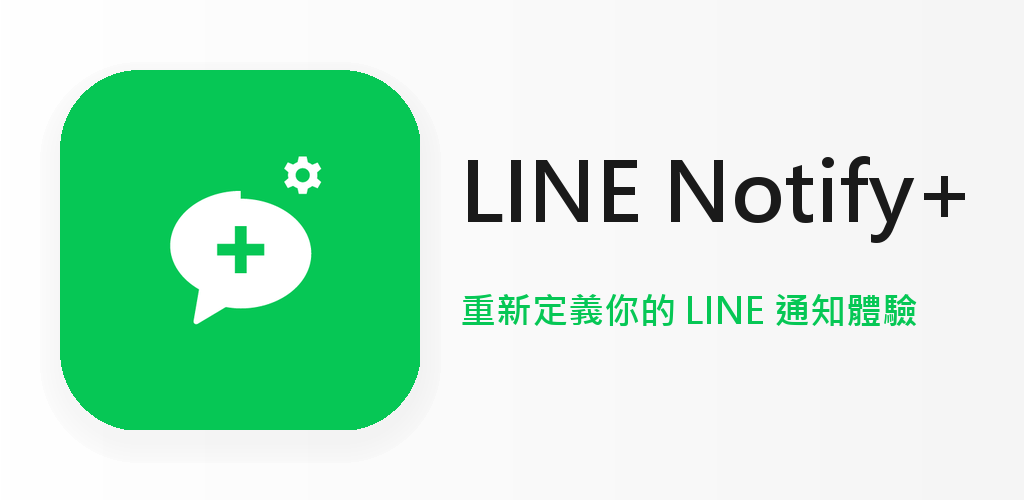
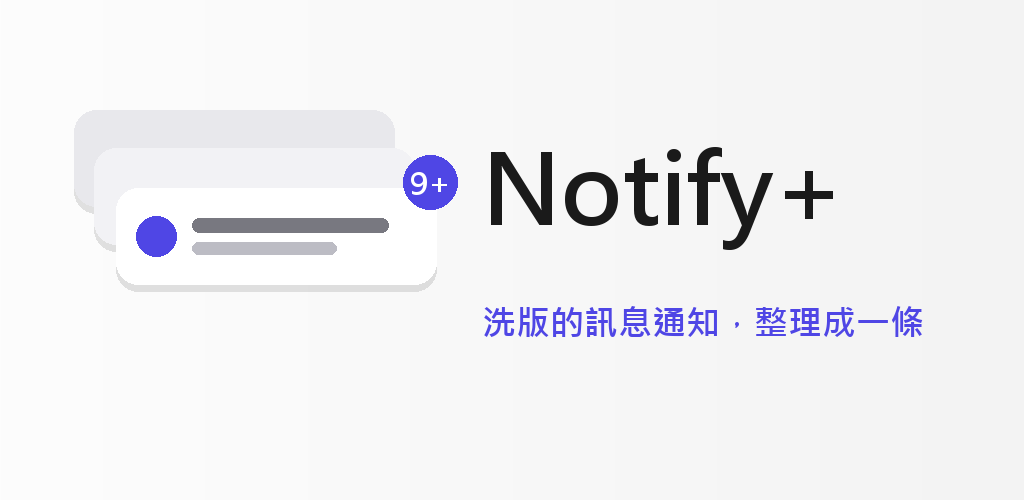
fix(branding): 改名 Notify+ + 重做 feature graphic，修 Play Console Impersonation 退件 (vc13)
vc12 (LINE Notify+) 被 Impersonation policy 退件:名稱撞 LINE 官方舊服務名、feature graphic 模仿 LINE 識別(綠氣泡+綠+LINE字)。處置:app_name→Notify+(中英)、feature graphic 改靛藍中性堆疊通知卡(無 LINE 元素)、商店描述去 LINE 主打+開頭聲明第三方非官方+刪過時安裝權限段。versionCode 12→13(vn 1.2.0 不變)。權限仍 2 個,AAB 已簽章驗證。icon 綠氣泡暫留(殘餘風險)。

Changed region(s): [[0.0312, 0.12, 0.9375, 0.87]]

diff --git a/play-store-assets/build_feature_graphic.py b/play-store-assets/build_feature_graphic.py
@@ -3,74 +3,83 @@ import time
 from PIL import Image, ImageDraw, ImageFont
 from pathlib import Path
 
+# Play Store feature graphic — 去 LINE 化版本 (2026-06-23)。
+# 起因:vc12 上傳被 Impersonation policy 退件,證據包含舊 feature graphic
+# 把綠氣泡 icon + LINE 綠 + 「LINE Notify+」+「重新定義你的 LINE 通知體驗」全堆上去。
+# 新版:中性靛藍、堆疊通知卡(代表多則合併成一條)、標題只有 Notify+、不含 LINE 字、不放綠氣泡。
+
 W, H = 1024, 500
-LINE_GREEN = (6, 199, 85)
+ACCENT = (79, 70, 229)        # indigo,刻意避開 LINE 綠
 DARK = (26, 26, 26)
+SUB = (96, 96, 104)
+GREY1 = (120, 120, 128)
+GREY2 = (188, 188, 196)
 WHITE = (255, 255, 255)
 
-# Use the CANONICAL shipped icon (fingerprint 4e05c9b15b1b, gear connected to
-# bubble) rendered by render_play_store_icon.mjs — NOT the old composer-2.5
-# export where the gear was detached.
-ICON_PATH = Path(__file__).parent / "play-store-icon-512.png"
 OUT_PATH = Path(__file__).parent / "feature-graphic.png"
 
-img = Image.new('RGB', (W, H), WHITE)
+img = Image.new('RGB', (W, H), (252, 252, 253))
 draw = ImageDraw.Draw(img)
 
+# 背景:左到右極淺灰漸層
 for x in range(W):
     t = x / W
-    v = int(255 - 10 * t)
+    v = int(253 - 10 * t)
     draw.line([(x, 0), (x, H)], fill=(v, v, v))
 
-icon = Image.open(ICON_PATH).convert('RGBA')
-icon_size = 360
-icon = icon.resize((icon_size, icon_size), Image.LANCZOS)
-icon_x = 60
-icon_y = (H - icon_size) // 2
+# 左側:三張堆疊的通知卡,代表「同一聊天室多則訊息合併成一條」
+card_w, card_h = 320, 96
+cx, base_y = 96, 150
+stack = [(-22, -40, (232, 232, 236)),
+         (-2, -2, (242, 242, 245)),
+         (20, 38, (255, 255, 255))]
+for dx, dy, fill in stack:
+    x0, y0 = cx + dx, base_y + dy
+    box = [x0, y0, x0 + card_w, y0 + card_h]
+    sh = Image.new('RGBA', (W, H), (0, 0, 0, 0))
+    ImageDraw.Draw(sh).rounded_rectangle(
+        [box[0], box[1] + 7, box[2], box[3] + 7], radius=22, fill=(0, 0, 0, 28))
+    img.paste(sh, (0, 0), sh)
+    draw.rounded_rectangle(box, radius=22, fill=fill)
 
-corner_radius = int(icon_size * 0.22)
-mask = Image.new('L', (icon_size, icon_size), 0)
-ImageDraw.Draw(mask).rounded_rectangle(
-    [0, 0, icon_size, icon_size], radius=corner_radius, fill=255)
-icon.putalpha(mask)
-
-shadow_offset = 12
-shadow = Image.new('RGBA', (W, H), (0, 0, 0, 0))
-shadow_draw = ImageDraw.Draw(shadow)
-for blur_r in range(20, 0, -2):
-    alpha = max(0, 8 - blur_r // 4)
-    shadow_draw.rounded_rectangle(
-        [icon_x - blur_r, icon_y - blur_r + shadow_offset,
-         icon_x + icon_size + blur_r, icon_y + icon_size + blur_r + shadow_offset],
-        radius=corner_radius + blur_r, fill=(0, 0, 0, alpha))
-img.paste(shadow, (0, 0), shadow)
-
-img.paste(icon, (icon_x, icon_y), icon)
+# 最前面那張卡:強調色圓形 avatar + 兩條文字線
+fx, fy = cx + 20, base_y + 38
+draw.ellipse([fx + 20, fy + 28, fx + 60, fy + 68], fill=ACCENT)
+draw.rounded_rectangle([fx + 76, fy + 30, fx + 272, fy + 44], radius=7, fill=GREY1)
+draw.rounded_rectangle([fx + 76, fy + 54, fx + 220, fy + 66], radius=7, fill=GREY2)
 
 font_bold = "C:/Windows/Fonts/msjhbd.ttc"
 try:
-    title_font = ImageFont.truetype(font_bold, 82)
-    tagline_font = ImageFont.truetype(font_bold, 36)
+    title_font = ImageFont.truetype(font_bold, 96)
+    tagline_font = ImageFont.truetype(font_bold, 34)
+    badge_font = ImageFont.truetype(font_bold, 30)
 except OSError:
     title_font = ImageFont.load_default()
     tagline_font = ImageFont.load_default()
+    badge_font = ImageFont.load_default()
 
-text_x = icon_x + icon_size + 40
-title = "LINE Notify+"
-tagline = "重新定義你的 LINE 通知體驗"
+# 合併計數徽記(「9+」代表多則合併),壓在卡片右上角
+badge_r = 27
+bx, by = cx + 20 + card_w - 6, base_y + 38 - 6
+draw.ellipse([bx - badge_r, by - badge_r, bx + badge_r, by + badge_r], fill=ACCENT)
+draw.text((bx, by), "9+", font=badge_font, fill=WHITE, anchor='mm')
+
+# 右側:標題 + tagline
+text_x = 482
+title = "Notify+"
+tagline = "洗版的訊息通知，整理成一條"
 
 t_ascent, t_descent = title_font.getmetrics()
 g_ascent, g_descent = tagline_font.getmetrics()
 title_h = t_ascent + t_descent
 tagline_h = g_ascent + g_descent
-
-gap = 28
+gap = 30
 total_h = title_h + gap + tagline_h
 y_start = (H - total_h) // 2
 
 draw.text((text_x, y_start), title, font=title_font, fill=DARK, anchor='lt')
 draw.text((text_x, y_start + title_h + gap), tagline,
-          font=tagline_font, fill=LINE_GREEN, anchor='lt')
+          font=tagline_font, fill=ACCENT, anchor='lt')
 
 tmp_path = OUT_PATH.with_suffix('.tmp.png')
 img.save(tmp_path, 'PNG', optimize=True)
@@ -79,7 +88,7 @@ for attempt in range(5):
     try:
         os.replace(tmp_path, OUT_PATH)
         break
-    except OSError as e:
+    except OSError:
         if attempt == 4:
             raise
         time.sleep(0.3)

diff --git a/play-store-assets/store-listing.md b/play-store-assets/store-listing.md
@@ -1,26 +1,31 @@
-# LINE Notify+ — Play Store 文案素材
+# Notify+ — Play Store 文案素材
 
-最後更新：2026-05-26
-版本：v1.1.0 (versionCode 8)
+最後更新：2026-06-23
+版本：v1.2.0 (versionCode 13)
+
+> ⚠ 2026-06-23 因 Impersonation policy 被退件（舊名「LINE Notify+」+ 舊 feature graphic 模仿 LINE 識別）。
+> 本檔已改名為 Notify+、去掉 LINE 品牌主打、開頭即聲明第三方非官方。商店描述可以「描述功能會用到 LINE 通知」，但名稱與識別不可暗示官方關聯。
 
 ---
 
 ## 短描述（80 字以內）
 
 ```
-告別 LINE 通知洗版，同一人連發十則訊息自動合併為一條。點一下看完全部、不誤判任何訊息。
+同一人連發十則訊息，自動合併成一條通知，一眼看完、不漏訊息。整理你手機上的訊息通知。
 ```
 
-字數：46 / 80
+字數：42 / 80
 
 ---
 
 ## 完整描述（4000 字以內）
 
 ```
-LINE Notify+ 重新定義你的 LINE 通知體驗。
+Notify+ 把手機上洗版的訊息通知，整理成乾淨好讀的一條。
 
-如果你被 LINE 通知顯示的方式困擾過——同一個聊天室一次傳了十則訊息，但是你在通知只能看到最新的一條訊息——這個工具就是為你而生的。
+Notify+ 是獨立開發的第三方通知整理工具，與 LINE Corporation、LY Corporation 沒有任何關聯，也不是官方產品。它的用途是接手並重新整理 LINE 在你手機上跳出的通知。
+
+如果你被通知顯示的方式困擾過——同一個聊天室一次傳了十則訊息，你卻只看得到最新一條——這個工具就是為你做的。
 
 【核心功能】
 
@@ -30,52 +35,40 @@ LINE Notify+ 重新定義你的 LINE 通知體驗。
 ▸ Apple 分組模式
 偏好每則訊息獨立顯示？切換到分組模式，同聊天室的訊息會自動收合堆疊，跟 iPhone 的通知中心體驗一致。
 
-▸ 取代原始 LINE 通知
-LINE Notify+ 會接管原始 LINE 通知顯示，避免一則訊息出現兩個通知卡的混亂狀況。
+▸ 取代原始通知
+Notify+ 會接管原始通知顯示，避免一則訊息出現兩個通知卡的混亂狀況。
 
 ▸ 快速回覆
-從通知卡直接打字回覆，不需要切換到 LINE App。
+從通知卡直接打字回覆，不需要切換回原本的聊天 App。
 
 ▸ 頭貼顯示
 每個通知都會帶上聯絡人頭貼，群組訊息可以一眼辨識誰在說話。
 
 ▸ 個別聊天室開關
-不想被某個群組打擾？單獨關掉那個聊天室的通知強化，其他聊天室不受影響。
+不想被某個群組打擾？單獨關掉那個聊天室的通知整理，其他聊天室不受影響。
+
+▸ 雙開帳號區分
+同時登入兩個帳號時，會分清楚每則訊息是哪個帳號收到的。
 
 ▸ 點擊跳轉與自動消失
-點通知會直接打開對應的 LINE 聊天室；訊息一旦看過，通知會自動清掉。
+點通知會直接打開對應的聊天室；訊息看過後，通知會自動清掉（可在設定切換清除時機）。
 
 【適合誰】
 
-- 每天收 LINE 通知超過 50 則的重度使用者
+- 每天收訊息通知超過 50 則的重度使用者
 - 有多個群組要管理的工作者
 - 對通知整潔有強迫症的人
-- Nothing Phone 用戶（這 App 為 Nothing OS 通知系統最佳化）
+- Nothing Phone 用戶（為 Nothing OS 通知系統最佳化）
 
 【權限說明】
 
-- 通知存取權：用來讀取 LINE 通知並重組顯示。所有資料只在你手機本機處理，不上傳任何伺服器。
-- 安裝套件權限：用於 App 內一鍵下載安裝更新（你可以隨時拒絕，改用 Google Play 更新）。
+- 通知存取權：用來讀取通知並重組顯示。所有資料只在你手機本機處理，不上傳任何伺服器。
+- App 完全沒有網路權限，不收集、不傳輸、不儲存任何訊息內容或聯絡人資料。
 
 【關於資料隱私】
 
-LINE Notify+ 是純本機處理工具。我們不收集、不傳輸、不儲存你的任何訊息內容或聯絡人資料。詳見隱私權政策：
+Notify+ 是純本機處理工具，沒有網路存取。我們不收集、不傳輸、不儲存你的任何訊息內容或聯絡人資料。詳見隱私權政策：
 https://stantheman0128.github.io/line-notify-plus/privacy-policy.html
-
-【持續更新】
-
-v1.1.0 主要更新：
-- 全新 App 圖示（無 LINE 商標，符合 Play Store 政策）
-- 修正快速回覆後通知卡轉圈問題
-- 內部清理與穩定性提升
-
-未來規劃（v1.2 / v2.0）：
-- 問題回報整合
-- 功能許願池（用戶許願 + 投票決定下一個功能）
-- 收回訊息保留顯示
-- 跨聊天室搜尋
-- Widget 桌面小工具
-- 多語言支援
 
 【聯絡與支援】
 
@@ -83,31 +76,27 @@ GitHub：https://github.com/stantheman0128/line-notify-plus
 有 bug 或建議歡迎回報。
 
 ---
-LINE 是 LY Corporation 的註冊商標。本 App 為獨立第三方工具，與 LY Corporation 及 LINE 株式會社無任何關聯或贊助關係。
+本 App 為獨立第三方工具，與 LINE Corporation、LY Corporation 及 LINE 株式會社沒有任何關聯、合作或贊助關係。LINE 是其各自所有者的商標。
 ```
 
-字數：約 750 / 4000
+字數：約 720 / 4000
 
 ---
 
-## Release notes (v1.1.0，500 字以內)
+## Release notes (v1.2.0，500 字以內)
 
 ```
-v1.1.0 更新內容：
+這版主要修通知行為，也順手改了介面：
 
-▸ 全新 App 圖示
-無 LINE 商標，符合 Play Store 上架政策。
-
-▸ 修正快速回覆 bug
-之前回覆完通知會卡在轉圈圈狀態，現已修正。
-
-▸ 內部穩定性提升
-移除未使用的程式碼，反應更順。
-
-感謝 v1.0 期間幫忙測試的用戶！
+• App 更名為 Notify+
+• 修正狀態欄快速回覆送不出、一直轉圈的問題
+• 可以設定回覆後或已讀後自動清掉通知，不再堆一排
+• 雙開帳號時會分清楚哪則訊息是哪個帳號的
+• 回覆時會顯示你自己的頭貼
+• 介面和用字重新整理過，看起來更好懂
 ```
 
-字數：約 85 / 500
+字數：約 100 / 500
 
 ---
 
@@ -120,6 +109,10 @@ v1.1.0 更新內容：
 
 ---
 
-## Internal Testing tester 名單
+## Impersonation 退件後待辦（2026-06-23）
 
-待 Google identity verification 通過後再決定。Internal Testing track 在 Play Console 可以隨時增刪 tester，不是一次性決策。
+- [x] App 名稱改 Notify+（strings.xml app_name 中英 + 待改 Play Console「App name」欄位）
+- [x] feature graphic 重做（去綠氣泡 / LINE 綠 / LINE 字）
+- [x] 商店描述去 LINE 主打 + 開頭聲明第三方非官方 + 刪過時的安裝權限段
+- [ ] Play Console 後台：改 App name 欄位、換 feature graphic、貼新描述、重傳 vc13 AAB
+- [ ] 殘餘風險：icon 仍是綠氣泡，二次提交可能再被抓；「Notify+」名稱通用，留意是否撞名

diff --git a/play-store-assets/play-console-progress.md b/play-store-assets/play-console-progress.md
@@ -4,6 +4,14 @@
 App ID: 4975318820563729104 (com.stanslab.linenotify)
 Dev account ID: 7824252807370180483（URL 用得到）
 
+## ⚠ 2026-06-23 Impersonation 退件 → 改名 Notify+（vc13）
+
+- vc12 (1.2.0) 上傳 Production 後被 **Impersonation policy** 退件。證據：App name「LINE Notify+」（撞 LINE 官方舊服務名 LINE Notify）+ feature graphic 模仿 LINE 識別（綠氣泡 icon + LINE 綠 + LINE 字 + 「重新定義你的 LINE 通知體驗」）。
+- 處置：App 改名 **Notify+**（app_name 中英已改 + 待改 Console「App name」欄位）；feature graphic 重做（靛藍中性、堆疊通知卡、無任何 LINE 元素）；商店描述去 LINE 主打、開頭即聲明第三方非官方、刪掉過時的「安裝套件權限」段。
+- 新 AAB：vc13 / 1.2.0，signed，權限仍只有 2 個。
+- ⚠ 殘餘風險：icon 還是綠氣泡（Stan 選暫不改），二次提交可能再被抓 icon；「Notify+」名稱通用，留意是否撞到別人已用的名稱。
+- Console 待辦：改 App name 欄位、換 feature graphic、貼新描述、重傳 vc13 AAB、重新送審。
+
 ## 帳號狀態
 - ✅ Google identity verification 通過
 - ✅ App entry 已建立（Free, 繁中 zh-TW）

diff --git a/ROADMAP.md b/ROADMAP.md
@@ -82,7 +82,7 @@
 - [預期，不處理] **無 deobfuscation 檔（R8 mapping）**：因 `isMinifyEnabled = false`（鐵則 6，故意關 R8 怕 release crash），沒混淆就沒對照表可傳，這警告本來就會出現。crash 的 stack trace 不混淆、本來就可讀，直接忽略即可。除非哪天決定開 R8，才需要連 mapping 一起傳。
 
 ## 長期 (v2.0)
-- [~] 上架 Google Play（v1.2.0 / vc12 進行中：closed testing 已過，signed AAB 待上 Production 審核）
+- [~] 上架 Google Play（v1.2.0 / vc13 進行中：2026-06-23 vc12 因 Impersonation policy 退件 → 已改名「Notify+」、重做 feature graphic、商店描述去 LINE 主打，待重交 Production；詳見 play-store-assets/play-console-progress.md）
 - [ ] 訊息搜尋（跨聊天室搜尋通知歷史）
 - [ ] 自訂通知音效 / 震動模式
 - [ ] Widget（桌面小工具顯示最近訊息）
